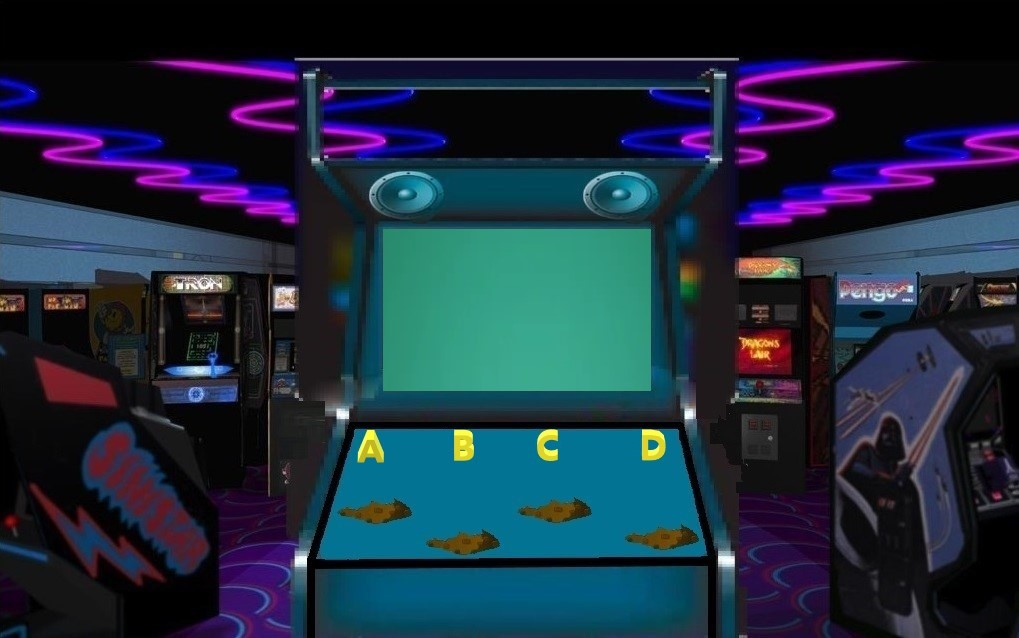
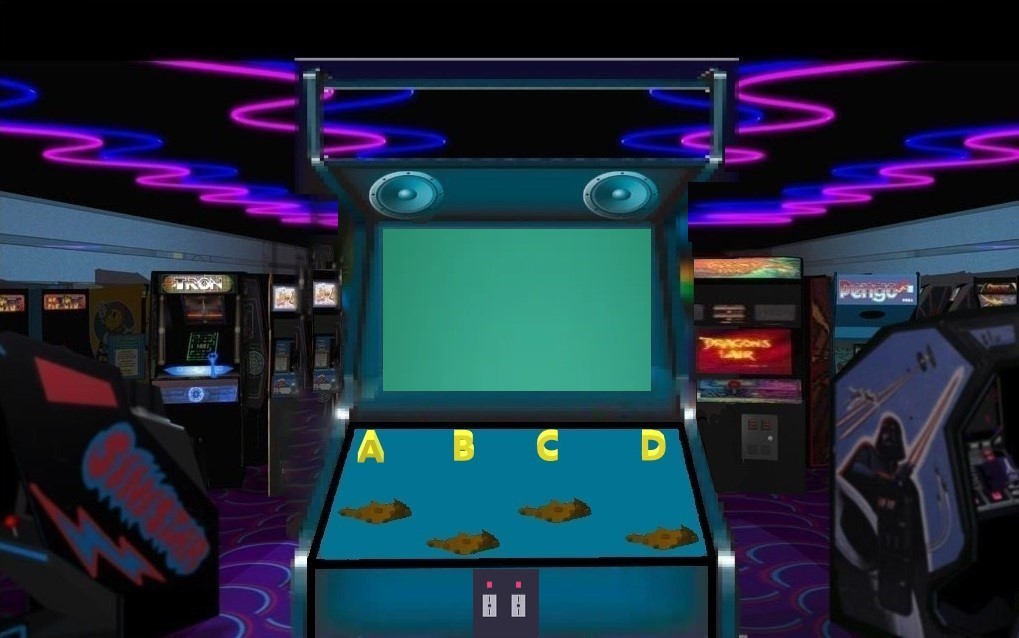
Improve backgroud images and style.css

diff --git a/assets/css/style.css b/assets/css/style.css
@@ -8,13 +8,14 @@ body {
 /* Scrolling Text  */
 #logo {
   position: absolute;
-  font-size: 51px;
-  z-index: 3;
-  margin: 33px 0 0 523px;
-  width: 389px;
-  background: black;
-  color: yellow;
-  height: 84px;
+    font-size: 51px;
+    z-index: 3;
+    margin: 24px 0 0 519px;
+    width: 395px;
+    border-radius: 11px;
+    background: black;
+    color: yellow;
+    height: 95px;
 }
 
 /* Background Image */
@@ -79,8 +80,12 @@ body {
 #btn {
   position: absolute;
   z-index: 30;
-  margin: 546px 0 0 522px;
+  margin: 535px 0 0 522px;
   background-color: gold;
+  border-radius: 149px;
+  width: 61px;
+  height: 57px;
+  font-weight: bold;
 }
 
 /* ------------------------------------------------------------------------------------------------------------------- */
@@ -118,4 +123,15 @@ body {
 /* Whack Sound */
 .bsounds {
   display: none;
+}
+
+/* Sound On/off */
+#bsoundoff{
+  margin: 547px 0 0 807px;
+  float: right;
+  position: absolute;
+  z-index: 70;
+  width: 92px;
+  color: gold;
+  cursor: pointer;
 }

diff --git a/assets/javascript/game.js b/assets/javascript/game.js
@@ -89,22 +89,27 @@ $("#btn").on("click", function() {
   $("#btn").attr("disabled", true);
 });
 
-
-
-
 //   Sounds
 // ------------------------------------------
 
 // Whack Sound
+var player = document.querySelector("#whack");
 function whack() {
-  var player = document.querySelector("#whack");
   player.play();
 }
 
 // Background Sound
+var player2 = document.querySelector("#game");
 function game() {
-  var player = document.querySelector("#game");
-  player.play();
+  player2.play();
 }
+
+// Sound Mute
+document.querySelector("#check").onclick = function() {
+  var x = document.querySelector("#check").value;
+  if (x == 1) {
+    player2.muted = true;
+  }
+};
 
 // ------------------------------------------

diff --git a/index.html b/index.html
@@ -62,6 +62,11 @@
     <audio id="game" class="bsounds" loop>
       <source src="assets/sounds/game.mp3" type="audio/mpeg" />
     </audio>
+      <div id="bsoundoff">
+        <input id="check" type="checkbox" name="off" value="1"><span>Sound Off</span>
+        
+      </div>
+    
 
     <script
       src="https://code.jquery.com/jquery-3.4.1.min.js"
